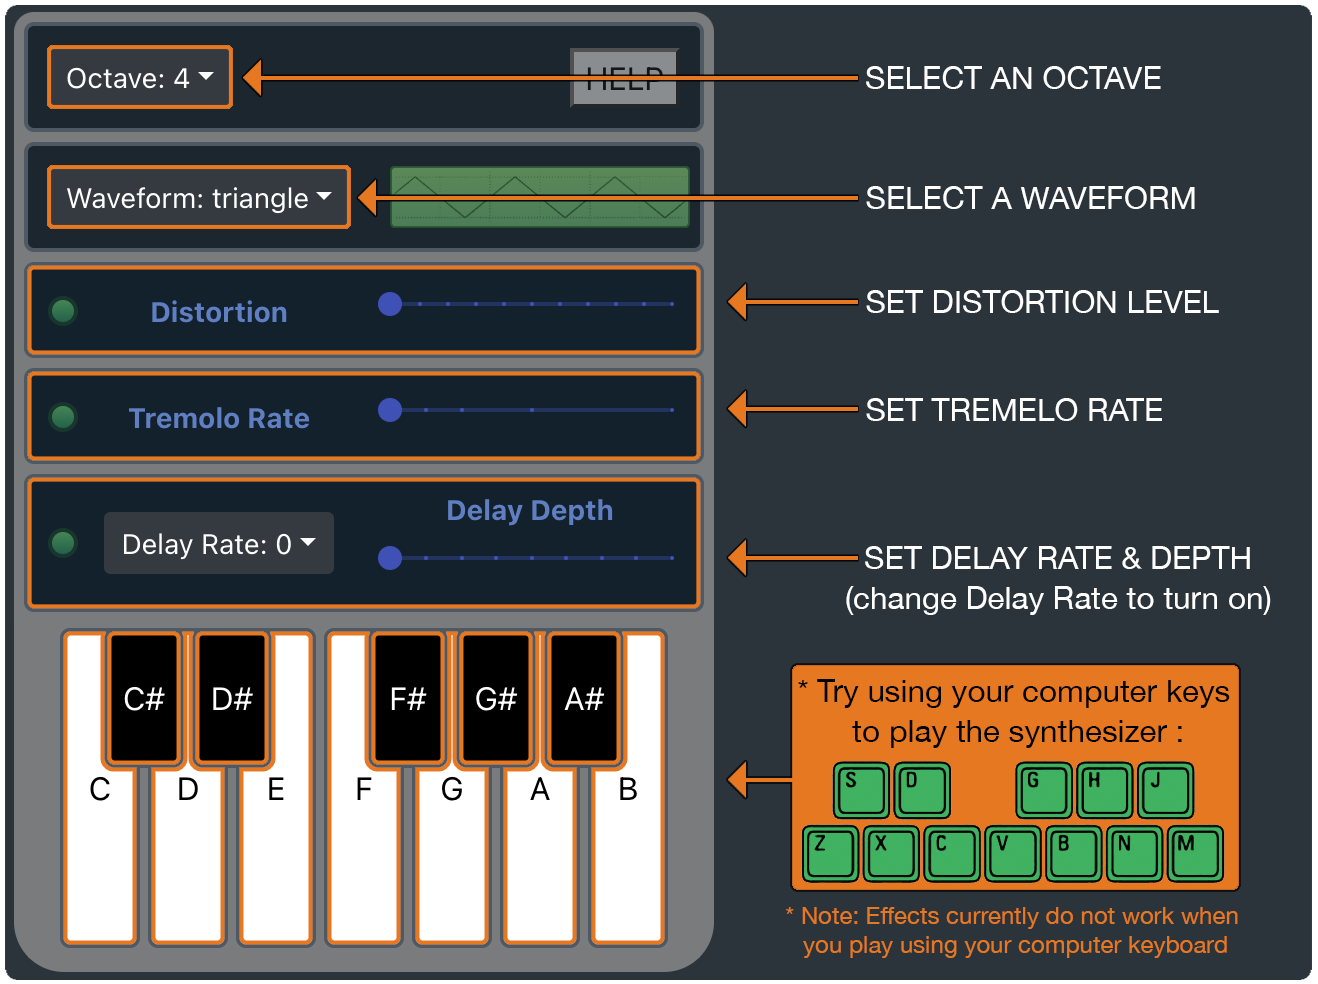
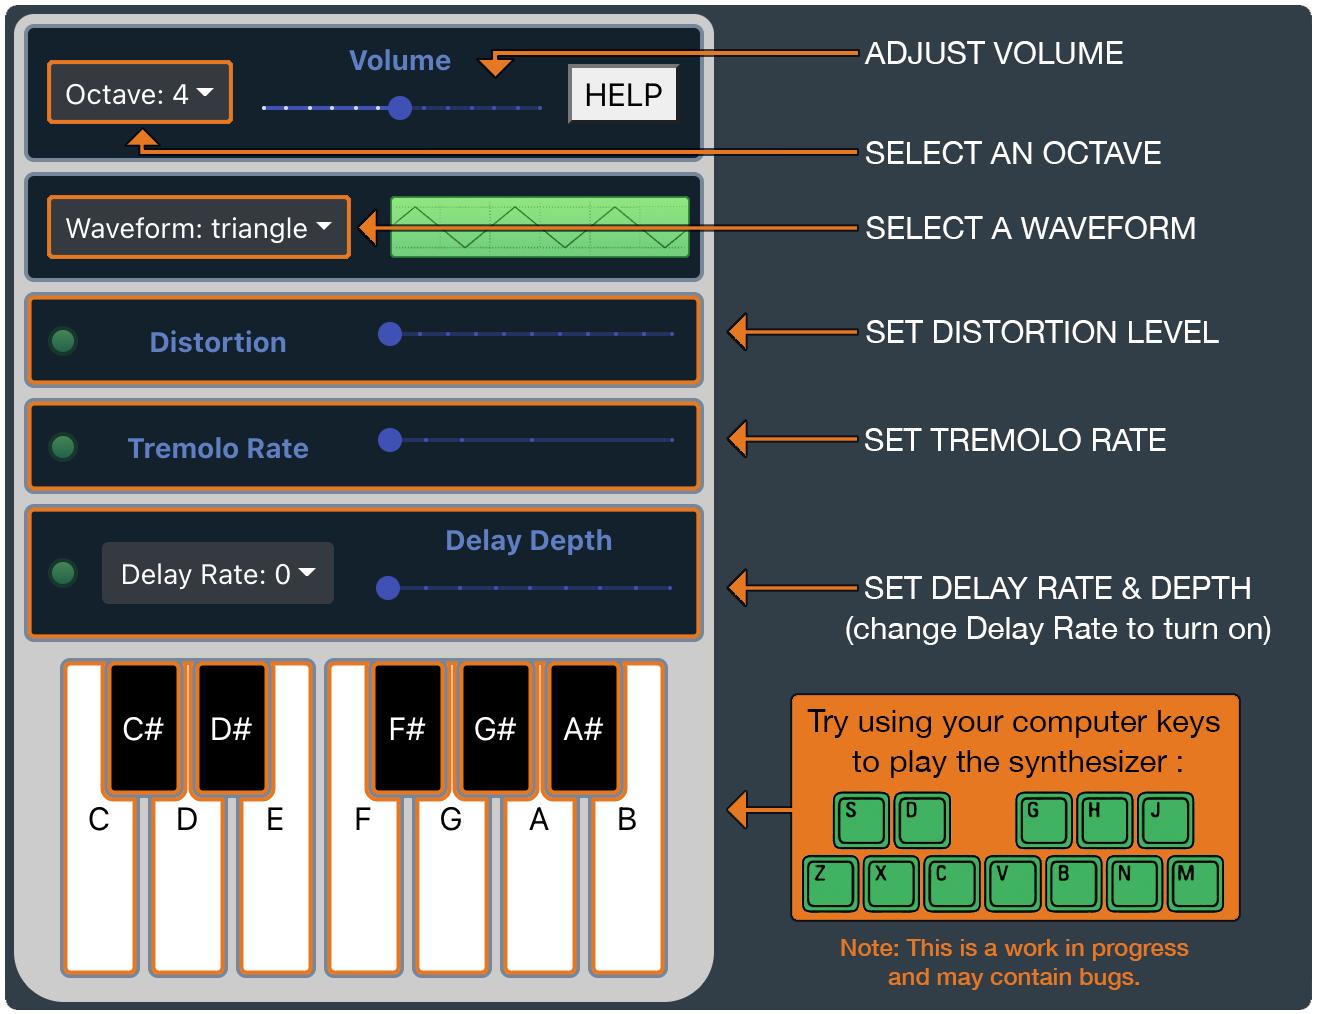
adds limiter and changes trem .start to keyboard

diff --git a/src/components/Keyboard.js b/src/components/Keyboard.js
@@ -19,9 +19,12 @@ export default function Keyboard() {
   const handleClose = () => setShow(false);
   const handleShow = () => setShow(true);
   const synthesizer = useContext(SynthContext);
-  const vol = new Tone.Volume(synthesizer.volume).toDestination();
+  const limiter = new Tone.Limiter(-2).toDestination();
+  const vol = new Tone.Volume(synthesizer.volume).connect(limiter);
   const comp = new Tone.Compressor(-30, 3).connect(vol);
-  const tremolo = new Tone.Tremolo(synthesizer.tremAmt, 1).connect(comp);
+  const tremolo = new Tone.Tremolo(synthesizer.tremAmt, 1)
+    .connect(comp)
+    .start();
   const pingPong = new Tone.PingPongDelay(
     synthesizer.pingPongRate,
     synthesizer.pingPongDepth
@@ -30,6 +33,7 @@ export default function Keyboard() {
   const dist = new Tone.Distortion(synthesizer.distAmt).connect(pingPong);
 
   const synthRef = new Tone.PolySynth({
+    maxPolyphony: 12,
     envelope: {
       attack: 0.1,
       decay: 0.2,
@@ -37,7 +41,7 @@ export default function Keyboard() {
       release: 0.1,
     },
   }).chain(dist, tremolo);
-
+  console.log(synthRef);
   // synthRef.current = new Tone.PolySynth({
   //   envelope: {
   //     attack: 0.1,
@@ -54,7 +58,7 @@ export default function Keyboard() {
 
   const playNote = useCallback(
     (note, synthesizer, synth, tremolo) => {
-      tremolo.start();
+      // tremolo.start();
       synth.triggerAttack(`${note}${synthesizer.octave}`, synthesizer.noteType);
     },
     [synthesizer, tremolo, synthRef]
